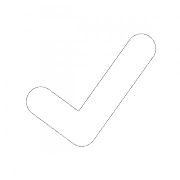
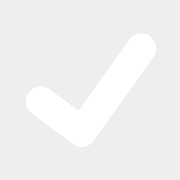
create projects controller and render modules

diff --git a/main.js b/main.js
@@ -98,25 +98,35 @@ __webpack_require__.r(__webpack_exports__);
 /* harmony export (binding) */ __webpack_require__.d(__webpack_exports__, "appRender", function() { return appRender; });
 const appRender = (() => {
 
-  (() => { // set navbar srcoll behaviour (hide / reveal):
-    let navbar = document.getElementById('navbar');
-    let content = document.getElementById('content');
+  // set styling / behaviours common to all views:
+  let navbar = document.getElementById('navbar');
+  let content = document.getElementById('content');
 
-    var prevScrollpos = window.pageYOffset;
-    window.onscroll = function() {
-      var currentScrollPos = window.pageYOffset;
-      if (prevScrollpos > currentScrollPos) {
-        navbar.style.top = "0";
-        content.style.marginTop = '50px';
-      } else {
-        navbar.style.top = '-50px';
-        content.style.marginTop = '0px';
-      }
-      prevScrollpos = currentScrollPos;
+  // set navbar scroll behaviour (hide / reveal):
+  var prevScrollpos = window.pageYOffset;
+  window.onscroll = function() {
+    var currentScrollPos = window.pageYOffset;
+    if (prevScrollpos > currentScrollPos) {
+      navbar.style.top = "0";
+      content.style.marginTop = '50px';
+    } else {
+      navbar.style.top = '-50px';
+      content.style.marginTop = '0px';
     }
-  })();
+    prevScrollpos = currentScrollPos;
+  }
 
-  (() => { // change some element dimensions on start / resize, as needed:
+  // declare functions to common to todosRender and projectsRender modules:
+
+  const clearContent = () => {
+    while (content.firstChild) {
+        content.removeChild(content.firstChild);
+    }
+  };
+
+  // ----------- extras -----------------
+
+  (() => { // Resize: UNUSED
     let navDiv = document.getElementById('navDiv');
 
       //let titleDiv = document.getElementById('titleDiv');
@@ -127,8 +137,8 @@ const appRender = (() => {
       }
     };
 
-    resize();
-    document.body.onresize = function(){ resize(); };
+    //resize();
+    //document.body.onresize = function(){ resize(); };
   })();
 
   // DEBUG: create content taller than page to test scroll effects
@@ -149,7 +159,7 @@ const appRender = (() => {
     window.dispatchEvent(new Event('resize'));
   };
 
-  return { placeholderContent };
+  return { clearContent, placeholderContent };
 
 })();
 
@@ -167,16 +177,15 @@ const appRender = (() => {
 
 "use strict";
 __webpack_require__.r(__webpack_exports__);
-/* harmony import */ var _appRender__WEBPACK_IMPORTED_MODULE_0__ = __webpack_require__(/*! ./appRender */ "./src/appRender.js");
-/* harmony import */ var _todosController__WEBPACK_IMPORTED_MODULE_1__ = __webpack_require__(/*! ./todosController */ "./src/todosController.js");
+/* harmony import */ var _todosController__WEBPACK_IMPORTED_MODULE_0__ = __webpack_require__(/*! ./todosController */ "./src/todosController.js");
+//import { appRender } from './appRender'
 
 
 
-
-_todosController__WEBPACK_IMPORTED_MODULE_1__["todosController"].index('All to-do items');
+_todosController__WEBPACK_IMPORTED_MODULE_0__["todosController"].index('All to-do items');
 
 // add placeholder content, for testing of navbar hide/reveal on scroll:
-_appRender__WEBPACK_IMPORTED_MODULE_0__["appRender"].placeholderContent();
+//appRender.placeholderContent();
 
 
 /***/ }),
@@ -256,8 +265,91 @@ const model = (() => {
     }
   };
 
-  return { todos, createExamples, deleteTodo, logTodos };
+  return { todos, projects, createExamples, deleteTodo, logTodos };
 
+})();
+
+
+
+
+/***/ }),
+
+/***/ "./src/projectsController.js":
+/*!***********************************!*\
+  !*** ./src/projectsController.js ***!
+  \***********************************/
+/*! exports provided: projectsController */
+/***/ (function(module, __webpack_exports__, __webpack_require__) {
+
+"use strict";
+__webpack_require__.r(__webpack_exports__);
+/* harmony export (binding) */ __webpack_require__.d(__webpack_exports__, "projectsController", function() { return projectsController; });
+/* harmony import */ var _model__WEBPACK_IMPORTED_MODULE_0__ = __webpack_require__(/*! ./model */ "./src/model.js");
+/* harmony import */ var _projectsRender__WEBPACK_IMPORTED_MODULE_1__ = __webpack_require__(/*! ./projectsRender */ "./src/projectsRender.js");
+
+
+
+const projectsController = (() => {
+  const index = () => {
+    _projectsRender__WEBPACK_IMPORTED_MODULE_1__["projectsRender"].index(_model__WEBPACK_IMPORTED_MODULE_0__["model"].projects); // sort alphabetically + add 'all'
+  };
+
+  return { index };
+})();
+
+
+
+
+/***/ }),
+
+/***/ "./src/projectsRender.js":
+/*!*******************************!*\
+  !*** ./src/projectsRender.js ***!
+  \*******************************/
+/*! exports provided: projectsRender */
+/***/ (function(module, __webpack_exports__, __webpack_require__) {
+
+"use strict";
+__webpack_require__.r(__webpack_exports__);
+/* harmony export (binding) */ __webpack_require__.d(__webpack_exports__, "projectsRender", function() { return projectsRender; });
+/* harmony import */ var _appRender__WEBPACK_IMPORTED_MODULE_0__ = __webpack_require__(/*! ./appRender */ "./src/appRender.js");
+/* harmony import */ var _projectsController__WEBPACK_IMPORTED_MODULE_1__ = __webpack_require__(/*! ./projectsController */ "./src/projectsController.js");
+
+
+
+const projectsRender = (() => {
+  const index = (projects) => {
+    _appRender__WEBPACK_IMPORTED_MODULE_0__["appRender"].clearContent();
+    let content = document.getElementById('content');
+
+    for(let i = 0; i < projects.length; i++) {
+      let div = document.createElement('div');
+      div.classList.add('itemDiv');
+      div.id = `project_${projects[i]}`;
+      div.addEventListener("click", function() {
+        console.log(`clicked div: ${this.id}`);
+      });
+      let checkbox = document.createElement('div');
+      checkbox.classList.add('checkbox');
+
+      let title = document.createElement('h2');
+      title.innerHTML = projects[i];
+      content.appendChild(div);
+      div.appendChild(checkbox);
+      div.appendChild(title);
+    }
+
+
+    // set navbar content & link to projects index
+    let msgDiv = document.getElementById('msgDiv');
+    msgDiv.style.width = '100%';
+    let projectsBtn = document.getElementById('projectsBtn');
+    projectsBtn.style.display = 'none';
+    let navMsg = document.getElementById('navMsg');
+    navMsg.innerHTML = 'Projects';
+  };
+
+  return { index };
 })();
 
 
@@ -331,37 +423,39 @@ const todosController = (() => {
 "use strict";
 __webpack_require__.r(__webpack_exports__);
 /* harmony export (binding) */ __webpack_require__.d(__webpack_exports__, "todosRender", function() { return todosRender; });
-/* harmony import */ var _todosController__WEBPACK_IMPORTED_MODULE_0__ = __webpack_require__(/*! ./todosController */ "./src/todosController.js");
+/* harmony import */ var _appRender__WEBPACK_IMPORTED_MODULE_0__ = __webpack_require__(/*! ./appRender */ "./src/appRender.js");
+/* harmony import */ var _todosController__WEBPACK_IMPORTED_MODULE_1__ = __webpack_require__(/*! ./todosController */ "./src/todosController.js");
+/* harmony import */ var _projectsController__WEBPACK_IMPORTED_MODULE_2__ = __webpack_require__(/*! ./projectsController */ "./src/projectsController.js");
+
+
 
 
 const todosRender = (() => {
 
   const index = (todos, project) => {
-    let navMsg = document.getElementById('navMsg');
-    navMsg.innerHTML = project;
-
+    _appRender__WEBPACK_IMPORTED_MODULE_0__["appRender"].clearContent();
     let content = document.getElementById('content');
 
     for(let i = 0; i < todos.length; i++) {
       let div = document.createElement('div');
-      div.classList.add('minTodoDiv');
+      div.classList.add('itemDiv');
       div.classList.add(`${todos[i].priority}Div`);
       div.id = `${todos[i].id}`;
       div.addEventListener("click", function() {
         console.log(`clicked div: ${this.id}`);
       });
-      let completed = document.createElement('div');
-      completed.classList.add('completed');
-      completed.id = `delete_${todos[i].id}`;
-      completed.addEventListener("click", function(e) {
+      let checkbox = document.createElement('div');
+      checkbox.classList.add('checkbox');
+      checkbox.id = `delete_${todos[i].id}`;
+      checkbox.addEventListener("click", function(e) {
         e.stopPropagation();
-        _todosController__WEBPACK_IMPORTED_MODULE_0__["todosController"].destroy(this.id);
+        _todosController__WEBPACK_IMPORTED_MODULE_1__["todosController"].destroy(this.id);
         removeTodo(this.id);
       });
       let title = document.createElement('h2');
       title.innerHTML = todos[i].title;
       content.appendChild(div);
-      div.appendChild(completed);
+      div.appendChild(checkbox);
       div.appendChild(title);
     }
 
@@ -375,6 +469,14 @@ const todosRender = (() => {
     plusSign.innerHTML = '+';
     addNew.appendChild(plusSign);
     content.appendChild(addNew);
+
+    // set navbar content & link to projects index
+    let navMsg = document.getElementById('navMsg');
+    navMsg.innerHTML = project;
+    let projectsBtn = document.getElementById('projectsBtn');
+    projectsBtn.addEventListener("click", function() {
+      _projectsController__WEBPACK_IMPORTED_MODULE_2__["projectsController"].index();
+    });
   };
 
   // private:
@@ -404,4 +506,4 @@ const todosRender = (() => {
 /***/ })
 
 /******/ });
[2 lines of base64/hex data omitted]

diff --git a/css/custom.css b/css/custom.css
@@ -99,7 +99,7 @@ img {
   width: calc(100% - 34px);
   height: 32px;
   line-height: 32px;
-  box-shadow: inset 0 3px 5px #000000;
+  box-shadow: inset 0 2px 5px #333;
   border-radius: 10px 0 0 10px;
   float: left;
 }
@@ -108,32 +108,32 @@ img {
   text-align: center;
 }
 
-#catBtn {
+#projectsBtn {
   display: block;
   width: 32px;
   height: 32px;
   border-style: solid;
   border-left-width: 2px;
   border-radius: 0 10px 10px 0;
-  box-shadow: inset 0 3px 5px #000000;
+  box-shadow: inset 0 2px 5px #333;
   float: right;
   background: url('../img/folders_mask.png');
   background-size: contain;
-  background-color: #000;
+  background-color: var(--dark-grey);
 }
 
-#catBtn:hover {
+#projectsBtn:hover {
   background-color: #666;
 }
 
-.minTodoDiv {
+.itemDiv {
   height: 28px;
   line-height: 28px;
   width: 100%;
 }
 
-.minTodoDiv:hover {
-  background-color: #ddd;
+.itemDiv:hover {
+  background-color: #ccc;
 }
 
 .highDiv {
@@ -160,7 +160,7 @@ img {
   background-color: hsl(60, 80%, 75%);
 }
 
-.completed {
+.checkbox {
   float: left;
   display: block;
   height: 22px;
@@ -169,11 +169,11 @@ img {
   border-width: 2px;
   border-radius: 5px;
   margin: 1px 10px 1px 10px;
-  background-color: #fff;
+  background-color: var(--light-grey);
   z-index: 1;
 }
 
-.completed:hover {
+.checkbox:hover {
   background: url('../img/tick_mask.png');
   background-size: contain;
   background-color: #bbb;

diff --git a/index.html b/index.html
@@ -17,7 +17,7 @@
           <div id="msgDiv">
             <h3 id="navMsg">To-do app</h3>
           </div>
-          <div id="catBtn"></div>
+          <div id="projectsBtn"></div>
         </div>
       </div>
     </div>
